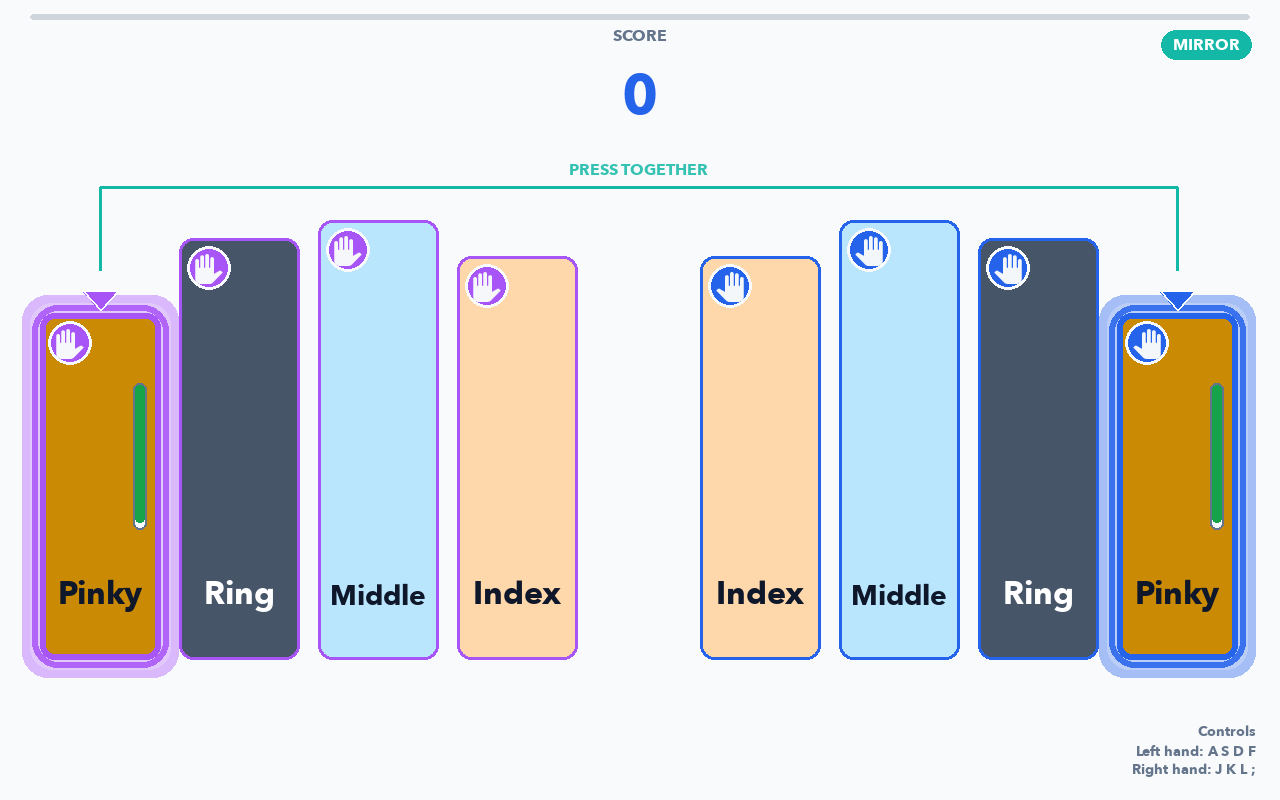
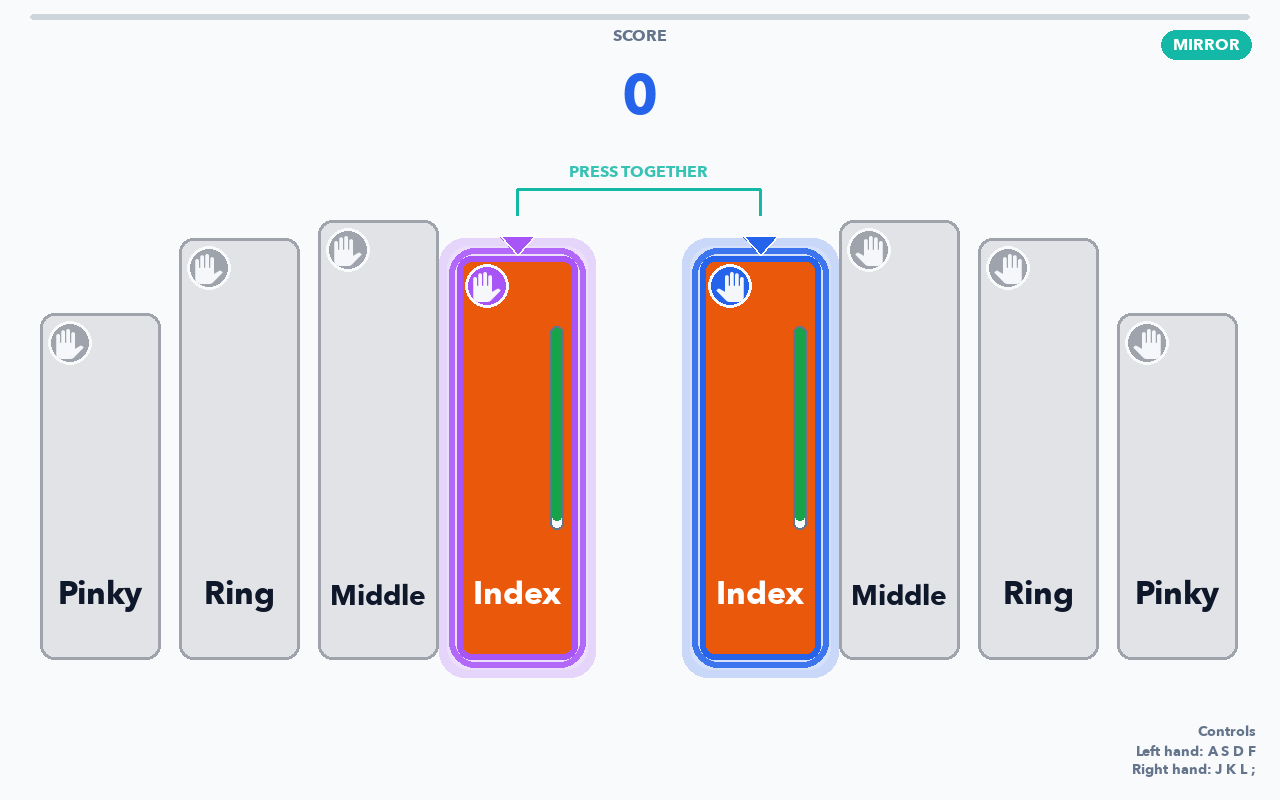
Auto-save 2026-09-29 10:21 AWST

diff --git a/app/finger_rehab/game/modes/srt.py b/app/finger_rehab/game/modes/srt.py
@@ -49,8 +49,8 @@ This mode replicates the script:
   (engine.last_flip_t) rather than by counting frames, so a dropped
   frame shifts one onset instead of every onset after it.
 - Recall: the participant enters the sequence they think they saw,
-  one card at a time (the finger, V B N M on a keyboard, or a click
-  on the card), with BACKSPACE to undo and ENTER or SPACE to submit
+  one card at a time (the finger, the hand's own keys on a keyboard,
+  or a click on the card), with BACKSPACE to undo and ENTER or SPACE to submit
   once every item is in; each entry lights its card for 150 ms, and
   presses in that 150 ms are dropped as the script drops them.
 - Exports: the script's three CSVs, same names and columns, in the
@@ -293,14 +293,28 @@ class SRTMode:
         src = getattr(self.engine, "source", None)
         return bool(getattr(src, "provides_samples", False))
 
+    def key_names(self) -> list[str]:
+        """The hand's own keys for squares 1 to 4, the keys every game
+        uses (J K L ; right, F D S A left), not the lab script's V B N M
+        (Basil, 29 September 2026)."""
+        km = self.engine.cfg.get(
+            keymap_for_hand(getattr(self.engine, "hand_mode", "right")),
+            {}) or {}
+        by_lane = {int(v): str(k) for k, v in km.items()}
+        names = []
+        for square in range(1, 5):
+            key = by_lane.get(self.square_to_lane(square), "?")
+            names.append(";" if key == "semicolon" else key.upper())
+        return names
+
     def labels(self) -> list[str]:
-        """What each square is called in the recall line: the script's
-        key letters on a keyboard, the finger on the pads (mirrored for
-        the left hand, whose little finger is the leftmost)."""
+        """What each square is called in the recall line: its key on a
+        keyboard, the finger on the pads (mirrored for the left hand,
+        whose little finger is the leftmost)."""
         if self._labels_override and len(self._labels_override) == 4:
             return list(self._labels_override)
         if not self.on_pads:
-            return [c.upper() for c in LETTERS]
+            return self.key_names()
         if self.two_hands:
             return list(TWO_HAND_LABELS)
         if self._response_hand() == "left":
@@ -341,16 +355,13 @@ class SRTMode:
         self._presses.append(ev)
 
     def _key_lane(self, key: int) -> int | None:
-        """The lane a key stands for: the hand's keymap first, then the
-        script's V B N M, which answer in every hand mode."""
+        """The lane a key stands for, from the hand's keymap: the same
+        keys as every other game, and nothing else."""
         km = self.engine.cfg.get(
             keymap_for_hand(getattr(self.engine, "hand_mode", "right")), {})
         for key_name, lane in (km or {}).items():
             if resolve_key(key_name) == key:
                 return int(lane)
-        for i, letter in enumerate(LETTERS):
-            if resolve_key(letter) == key:
-                return self.square_to_lane(i + 1)
         return None
 
     def handle_event(self, e: pygame.event.Event) -> None:
@@ -860,8 +871,10 @@ class SRTMode:
         if step is None:
             return ""
         pads = self.on_pads
+        a, b, c, d = self.key_names()
         which = ("finger\nas quickly as you can." if pads
-                 else "key\n(V, B, N, or M) as quickly as you can.")
+                 else f"key\n({a}, {b}, {c}, or {d}) as quickly as you "
+                      f"can.")
         what = "finger" if pads else "key"
         texts = {
             "welcome": ("Welcome to the experiment.\n\n"
@@ -894,8 +907,9 @@ class SRTMode:
 
     def recall_text(self) -> str:
         n = len(self.seq)
+        k = self.key_names()
         enter = ("Press the matching fingers" if self.on_pads
-                 else "Press V, B, N, or M")
+                 else f"Press {k[0]}, {k[1]}, {k[2]}, or {k[3]}")
         return ("Did you notice a repeating sequence during the main task?"
                 "\n\n"
                 f"{enter} to enter the {n}-item sequence you learned.\n\n"

diff --git a/app/tests/test_grey_until_cued.py b/app/tests/test_grey_until_cued.py
@@ -1,0 +1,101 @@
+"""Grey until cued: in Reaction, Adaptive, Muscle Memory, Chords, Echo
+and Mirror every waiting finger tile is a neutral grey, and a tile shows
+its finger's colour only when a cue lights it, so colour on a tile means
+one thing, this finger now (Basil, 28 and 29 September 2026). Each game
+is started for real and its tiles read off the drawn frame.
+"""
+from __future__ import annotations
+
+import os
+import sys
+import unittest
+from pathlib import Path
+from unittest.mock import MagicMock
+
+os.environ.setdefault("SDL_VIDEODRIVER", "dummy")
+os.environ.setdefault("SDL_AUDIODRIVER", "dummy")
+sys.path.insert(0, str(Path(__file__).resolve().parents[1]))
+
+GREY_GAMES = ("reaction", "adaptive", "pattern", "chords", "echo",
+              "mirror")
+
+
+def _started(block):
+    import pygame
+    pygame.init()
+    from finger_rehab.config import Config
+    from finger_rehab.game.engine import GameEngine
+    from finger_rehab.hardware.keyboard_source import KeyboardOnlySource
+    import finger_rehab.ui.screens as screens
+    cfg = Config.load()
+    cfg.data["ui"]["resolution"] = [1280, 800]
+    cfg.data["audio"]["enabled"] = False
+    eng = GameEngine(cfg, KeyboardOnlySource())
+    eng._screens = {"gameplay": MagicMock(), "results": MagicMock()}
+    if block == "mirror":
+        eng.set_hand_mode("both")
+    getattr(eng, eng._BLOCK_STARTERS[block])()
+    gp = screens.GameplayScreen(eng)
+    gp._countdown_until = 0.0
+    return eng, gp
+
+
+def _fill_at(surf, ls):
+    """The tile's body colour, away from its badge and its label."""
+    return tuple(surf.get_at((ls.rect.centerx,
+                              ls.rect.y + ls.rect.h // 3)))[:3]
+
+
+class GreyUntilCued(unittest.TestCase):
+
+    def tearDown(self):
+        import pygame
+        pygame.quit()
+
+    def test_the_six_games_are_the_grey_ones(self):
+        from finger_rehab.ui.screens import GameplayScreen
+        self.assertEqual(GameplayScreen.NEUTRAL_IDLE_BLOCKS,
+                         frozenset(GREY_GAMES))
+
+    def test_waiting_tiles_are_grey_and_a_cue_is_its_finger_colour(self):
+        import pygame
+        for block in GREY_GAMES:
+            with self.subTest(game=block):
+                eng, gp = _started(block)
+                try:
+                    for ls in gp.lanes:
+                        ls.active = False
+                        ls.flash_until = 0.0
+                    lit = gp.lanes[1]
+                    surf = pygame.Surface((1280, 800))
+                    gp.draw(surf)
+                    # The game may re-arm its own cue on the frame; set
+                    # ours after the first draw and draw again.
+                    for ls in gp.lanes:
+                        ls.active = ls is lit
+                        ls.flash_until = 0.0
+                        ls.is_pressed = False
+                    for ls in gp.lanes:
+                        ls.draw(surf, 0.0)
+                    grey = lit.neutral_colours()[0]
+                    for ls in gp.lanes:
+                        self.assertTrue(ls.neutral_idle, block)
+                        want = (eng.theme.lane_active[ls.finger % 4]
+                                if ls.active else grey)
+                        self.assertEqual(_fill_at(surf, ls), want,
+                                         f"{block} lane {ls.lane}")
+                finally:
+                    eng._abandon_if_in_block()
+
+    def test_a_game_off_the_list_keeps_its_finger_colours(self):
+        import pygame
+        eng, gp = _started("classic")
+        try:
+            gp.draw(pygame.Surface((1280, 800)))
+            self.assertTrue(all(not ls.neutral_idle for ls in gp.lanes))
+        finally:
+            eng._abandon_if_in_block()
+
+
+if __name__ == "__main__":
+    unittest.main()

diff --git a/app/tests/test_srt_mode.py b/app/tests/test_srt_mode.py
@@ -694,7 +694,8 @@ class RecallAndMessages(unittest.TestCase):
     def test_the_message_words_are_the_scripts(self):
         text = self.mode.message_text(self.mode.steps[0])
         self.assertTrue(text.startswith("Welcome to the experiment."))
-        self.assertIn("(V, B, N, or M)", text)
+        self.assertIn("(J, K, L, or ;)", text)
+        self.assertNotIn("V, B", text)
         blocks = [s for s in self.mode.steps if s.key == "block"]
         self.assertEqual(self.mode.message_text(blocks[1]),
                          "Block 2 of 2\n\nPress SPACE when ready.")
@@ -713,13 +714,13 @@ class RecallAndMessages(unittest.TestCase):
             later(after)
             sim.key(k)
             sim.frame()
-        press(pygame.K_v, after=0.0)
+        press(Sim.KEYS[0], after=0.0)
         self.assertEqual(m.recalled, [1])
         self.assertEqual(m.select_square, 1)
         # Inside the 150 ms yellow flash: dropped, as the script drops it.
-        press(pygame.K_n, after=0.05)
+        press(Sim.KEYS[2], after=0.05)
         self.assertEqual(m.recalled, [1])
-        press(pygame.K_n)
+        press(Sim.KEYS[2])
         self.assertEqual(m.recalled, [1, 3])
         later(0.2)
         sim.key(pygame.K_BACKSPACE)
@@ -776,21 +777,32 @@ class HandsLabelsAndMarkers(unittest.TestCase):
 
     def test_labels(self):
         eng, m = self._mode("right")
-        self.assertEqual(m.labels(), ["V", "B", "N", "M"])
+        self.assertEqual(m.labels(), ["J", "K", "L", ";"])
         eng.source = MagicMock(provides_samples=True)
         self.assertEqual(m.labels(), ["Index", "Middle", "Ring", "Little"])
         eng.hand_mode = "left"
         self.assertEqual(m.labels(), ["Little", "Ring", "Middle", "Index"])
         self.assertIn("finger", m.instruction())
 
-    def test_vbnm_answer_in_every_hand_mode(self):
-        for hand in ("right", "left", "both"):
+    def test_only_the_apps_own_keys_answer(self):
+        # The keys every game uses, J K L ; and F D S A, and not the
+        # lab script's V B N M as well (Basil, 29 September 2026).
+        keys = {"right": ((pygame.K_j, pygame.K_k, pygame.K_l,
+                           pygame.K_SEMICOLON), ["J", "K", "L", ";"]),
+                "left": ((pygame.K_a, pygame.K_s, pygame.K_d, pygame.K_f),
+                         ["A", "S", "D", "F"]),
+                "both": ((pygame.K_d, pygame.K_f, pygame.K_j, pygame.K_k),
+                         ["D", "F", "J", "K"])}
+        for hand, (ks, names) in keys.items():
             with self.subTest(hand=hand):
                 _eng, m = self._mode(hand)
-                for i, k in enumerate((pygame.K_v, pygame.K_b, pygame.K_n,
-                                       pygame.K_m)):
+                for i, k in enumerate(ks):
                     self.assertEqual(m.lane_to_square(m._key_lane(k)),
                                      i + 1)
+                for k in (pygame.K_v, pygame.K_b, pygame.K_n, pygame.K_m):
+                    self.assertIsNone(m._key_lane(k))
+                self.assertEqual(m.labels(), names)
+                self.assertNotIn("V, B", m.recall_text())
 
     def test_response_bytes_only_when_asked(self):
         eng, m = self._mode("right", response_markers=True)
@@ -857,8 +869,7 @@ class TwoHands(unittest.TestCase):
     def test_the_two_hand_keys_answer(self):
         _eng, m = self._start()
         for key, square in ((pygame.K_d, 1), (pygame.K_f, 2),
-                            (pygame.K_j, 3), (pygame.K_k, 4),
-                            (pygame.K_v, 1), (pygame.K_m, 4)):
+                            (pygame.K_j, 3), (pygame.K_k, 4)):
             self.assertEqual(m.lane_to_square(m._key_lane(key)), square)
 
     def test_rows_say_which_hand_answered(self):

diff --git a/app/finger_rehab/ui/screens.py b/app/finger_rehab/ui/screens.py
@@ -2889,6 +2889,13 @@ class GameplayScreen(Screen):
     # in. A beat later is out of it.
     REACT_EPOCH_TAIL_S = 1.0
 
+    # Games whose waiting tiles are a neutral grey, so colour on a tile
+    # means one thing: this finger now (Basil, 28 and 29 September
+    # 2026). The cue lights a tile in its finger's colour; outcome
+    # flashes and press feedback are unchanged.
+    NEUTRAL_IDLE_BLOCKS = frozenset({"reaction", "adaptive", "pattern",
+                                     "chords", "echo", "mirror"})
+
     def _reaction_stage(self) -> bool:
         """Whether this block gets the static treatment.
 
@@ -3272,9 +3279,9 @@ class GameplayScreen(Screen):
             # window in words at the top of the screen instead, so the
             # lit tile is a step and then nothing.
             ls.show_timing_bar = not static
-            # Waiting tiles are grey in reaction: the cue is the only
+            # Waiting tiles are grey in these games: the cue is the only
             # colour until the press's outcome flash.
-            ls.neutral_idle = static
+            ls.neutral_idle = block in self.NEUTRAL_IDLE_BLOCKS
             ls.draw(surf, now)
 
         # Stim ignition: catch the frame a lane goes active and fire a

diff --git a/app/tests/test_reaction_mode.py b/app/tests/test_reaction_mode.py
@@ -1071,17 +1071,17 @@ class ReactionStaticStageTests(unittest.TestCase):
         finally:
             pygame.quit()
 
-    def test_waiting_tiles_are_grey_in_reaction_only(self) -> None:
+    def test_waiting_tiles_are_grey_in_reaction(self) -> None:
         """Every waiting tile is a neutral grey in reaction, so the cue
-        is the only colour on the row (Basil, 28 September 2026).
-        Every other mode keeps its finger colours."""
+        is the only colour on the row (Basil, 28 September 2026); the
+        other grey games are in test_grey_until_cued.py."""
         import pygame
         try:
             eng, gp = self._engine_and_screen()
             eng.mode._phase = "foreperiod"
             _frame(gp)
             self.assertTrue(all(ls.neutral_idle for ls in gp.lanes))
-            eng.current_block = "adaptive"
+            eng.current_block = "classic"
             _frame(gp)
             self.assertTrue(all(not ls.neutral_idle for ls in gp.lanes))
         finally:

diff --git a/app/finger_rehab/ui/srt_screen.py b/app/finger_rehab/ui/srt_screen.py
@@ -208,11 +208,10 @@ class SRTScreen(Screen):
 
     def _draw_controls(self, surf: pygame.Surface, mode) -> None:
         """The corner Controls note on a keyboard, as every lane game
-        draws it, plus the lab's own V B N M, which answer too."""
+        draws it: the same keys, and only those."""
         if mode.on_pads:
             return
         lines = keyboard_controls_lines(self.engine, mode)
-        lines.append("or V B N M")
         font = self.layout.font(FONT_SMALL)
         right = self.layout.width - 24
         y = self.layout.height - 22 - 18 * len(lines)
